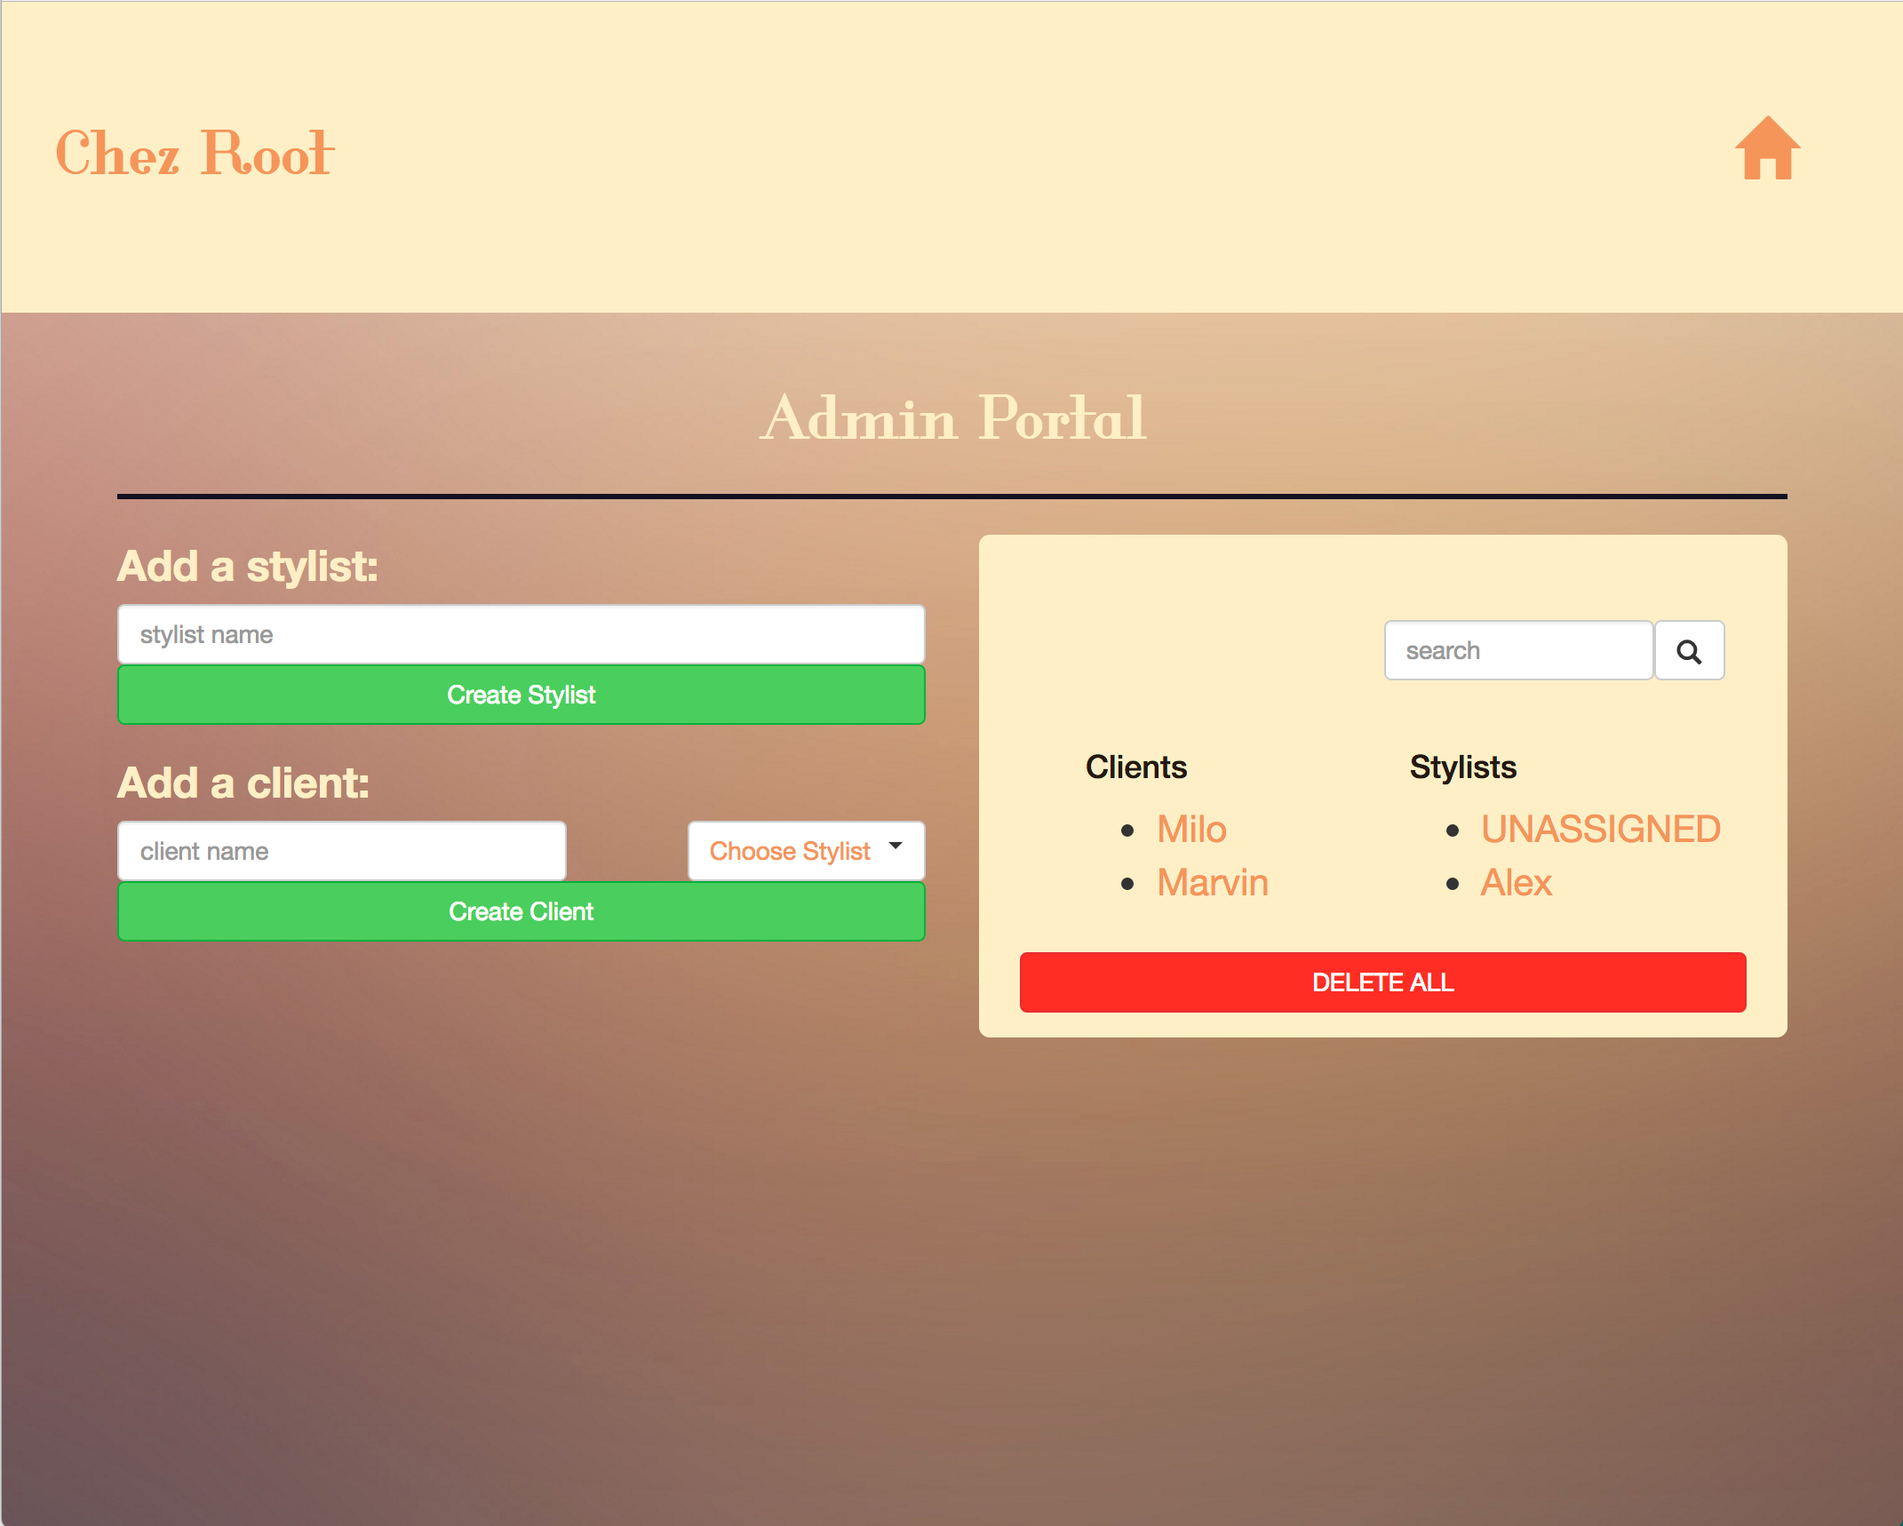
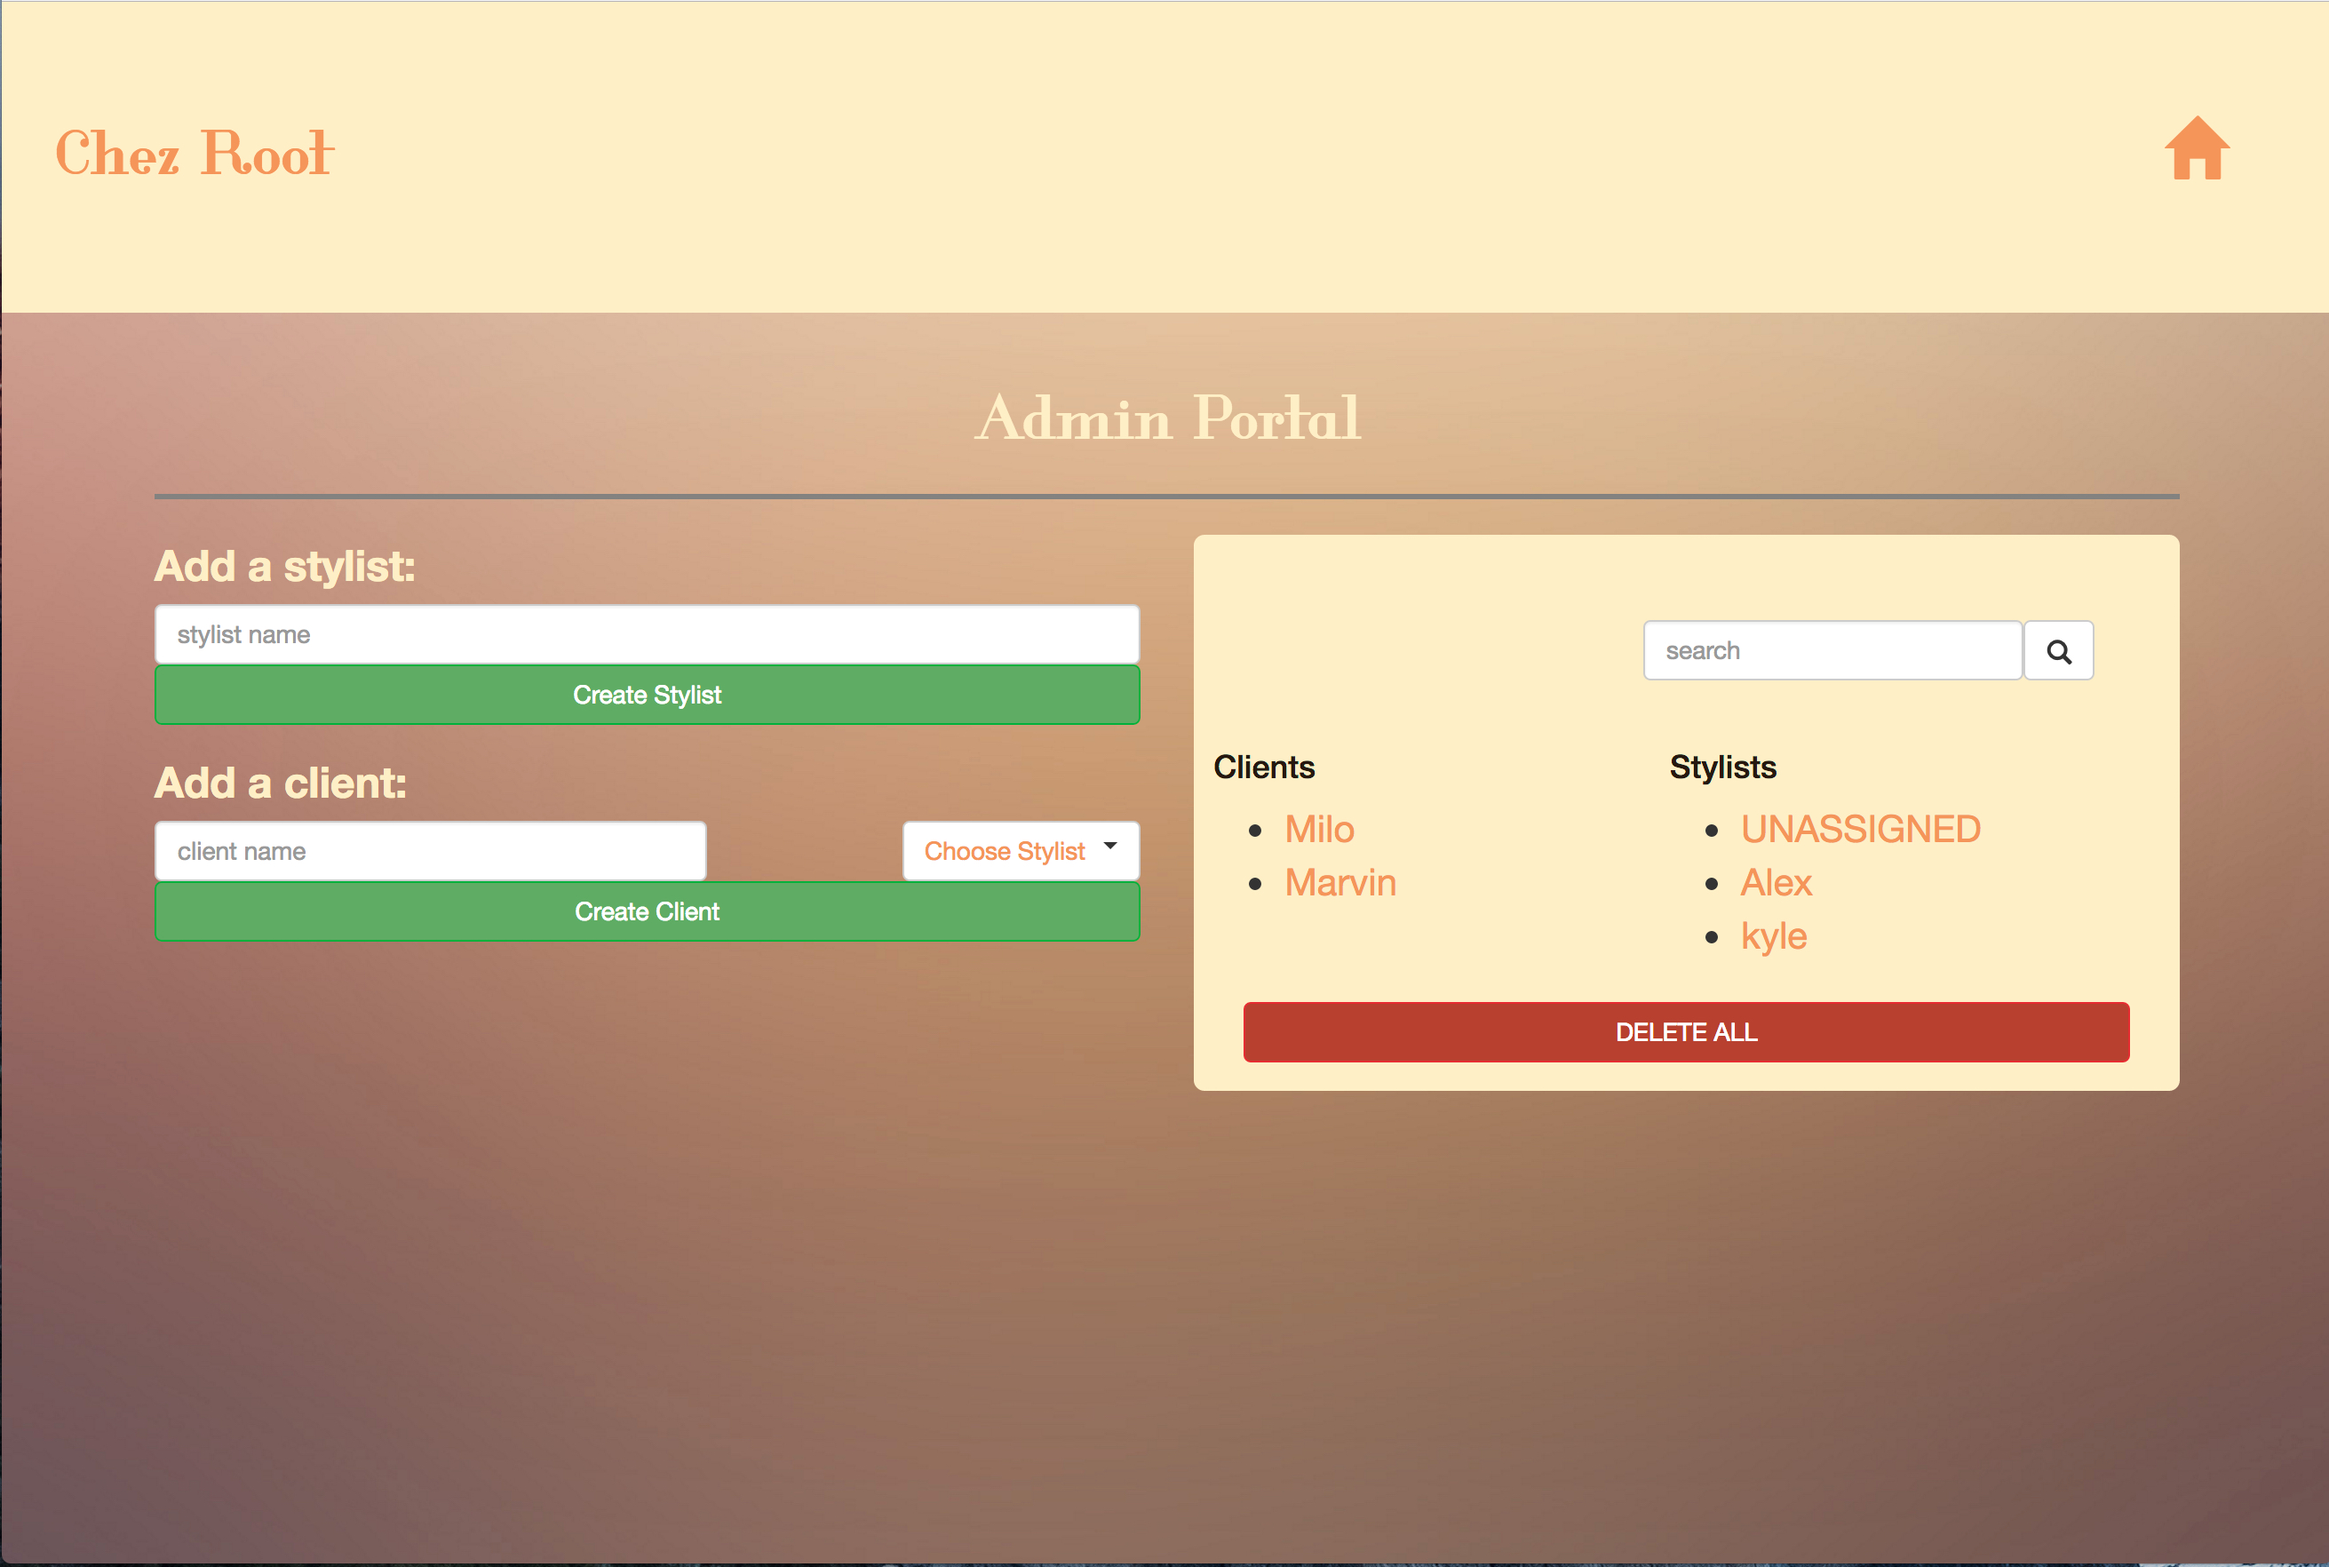
fix css column layout, colors, etc

diff --git a/web/css/styles.css b/web/css/styles.css
@@ -29,12 +29,12 @@ label
 
 .btn-success
 {
-    background-color: #72CC6C;
+    background-color: #72AA6C;
 }
 
 .btn-danger
 {
-    background-color: #FF4837;
+    background-color: #AA4837;
 }
 
 /*===NAVBAR AND HEADER STYLING============================================*/
@@ -46,7 +46,7 @@ label
     background-color: transparent;
     color: #131221;
     /* Create thin dark line for separation */
-    border-bottom: 3px solid #131221;
+    border-bottom: 3px solid #838281;
 }
 
 /* Give header adaquate space from navbar */
@@ -174,11 +174,17 @@ label
 
 /*===CLIENTS STYLISTS LIST====================================================*/
 
+#search-bar
+{
+    margin-left: 18px;
+}
+
 #database-contents-list
 {
     /* In order to move delete-all button to the bottom of the div */
     position: relative;
     background-color: #FCEFCB;
+    padding-left: 2%;
 
 }
 
@@ -268,7 +274,7 @@ label
 
 #update-stylist-name-button
 {
-    background-color: #72CC6C;
+    background-color: #72AA6C;
 }
 
 #new-client-name-input label
@@ -284,7 +290,7 @@ label
 
 #update-client-name-button
 {
-    background-color: #72CC6C;
+    background-color: #72AA6C;
 }
 
 /*===MEDIA QUERIES===========================================================*/
